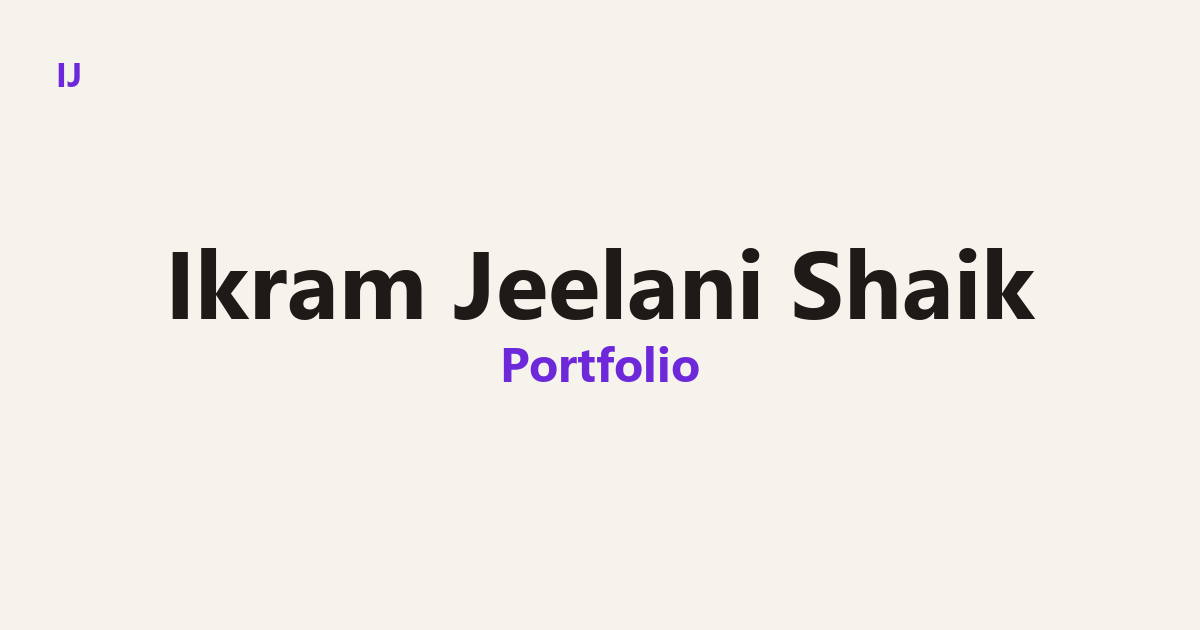
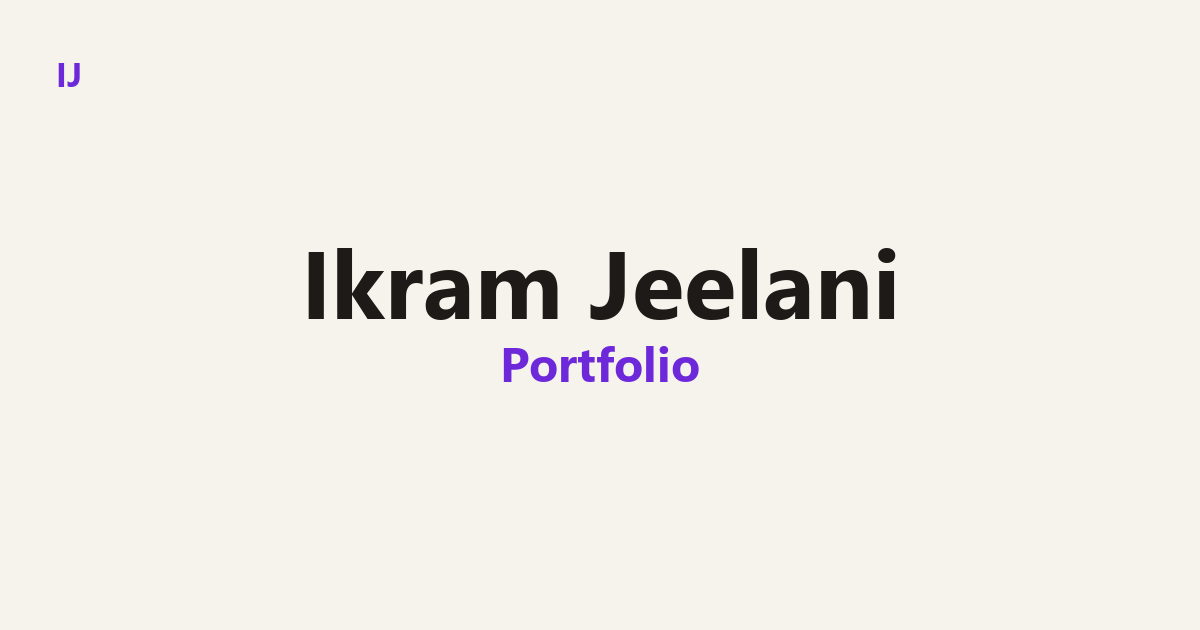
Update data.js

Changed region(s): [[0.1233, 0.3921, 0.8633, 0.5127]]

diff --git a/share/dc-motor-speed-controller-using-8051-mcu.html b/share/dc-motor-speed-controller-using-8051-mcu.html
@@ -4,15 +4,15 @@
 <meta charset="UTF-8">
 <meta name="viewport" content="width=device-width, initial-scale=1.0">
 <meta http-equiv="refresh" content="0; url=https://ikramjeelani.github.io/portfolio/project.html?id=dc-motor-speed-controller-using-8051-mcu">
-<title>DC Motor Speed Controller using 8051 MCU - Ikram Jeelani Shaik</title>
-<meta name="description" content="An in-depth look at DC Motor Speed Controller using 8051 MCU by Ikram Jeelani Shaik.">
+<title>DC Motor Speed Controller using 8051 MCU - Ikram Jeelani</title>
+<meta name="description" content="An in-depth look at DC Motor Speed Controller using 8051 MCU by Ikram Jeelani.">
 <meta name="robots" content="noindex, follow">
 <link rel="canonical" href="https://ikramjeelani.github.io/portfolio/project.html?id=dc-motor-speed-controller-using-8051-mcu">
 
 <meta property="og:type" content="article">
-<meta property="og:site_name" content="Ikram Jeelani Shaik">
-<meta property="og:title" content="DC Motor Speed Controller using 8051 MCU - Ikram Jeelani Shaik">
-<meta property="og:description" content="An in-depth look at DC Motor Speed Controller using 8051 MCU by Ikram Jeelani Shaik.">
+<meta property="og:site_name" content="Ikram Jeelani">
+<meta property="og:title" content="DC Motor Speed Controller using 8051 MCU - Ikram Jeelani">
+<meta property="og:description" content="An in-depth look at DC Motor Speed Controller using 8051 MCU by Ikram Jeelani.">
 <meta property="og:url" content="https://ikramjeelani.github.io/portfolio/project.html?id=dc-motor-speed-controller-using-8051-mcu">
 <meta property="og:image" content="https://ikramjeelani.github.io/portfolio/assets/Projects/DC-Motor-Speed-Controller-using-8051-MCU/display.jpg">
 <meta property="og:image:width" content="1400">
@@ -20,8 +20,8 @@
 <meta property="og:image:alt" content="DC Motor Speed Controller using 8051 MCU">
 
 <meta name="twitter:card" content="summary_large_image">
-<meta name="twitter:title" content="DC Motor Speed Controller using 8051 MCU - Ikram Jeelani Shaik">
-<meta name="twitter:description" content="An in-depth look at DC Motor Speed Controller using 8051 MCU by Ikram Jeelani Shaik.">
+<meta name="twitter:title" content="DC Motor Speed Controller using 8051 MCU - Ikram Jeelani">
+<meta name="twitter:description" content="An in-depth look at DC Motor Speed Controller using 8051 MCU by Ikram Jeelani.">
 <meta name="twitter:image" content="https://ikramjeelani.github.io/portfolio/assets/Projects/DC-Motor-Speed-Controller-using-8051-MCU/display.jpg">
 
 <script>location.replace('https://ikramjeelani.github.io/portfolio/project.html?id=dc-motor-speed-controller-using-8051-mcu');</script>

diff --git a/share/model-winch-for-foundry.html b/share/model-winch-for-foundry.html
@@ -4,15 +4,15 @@
 <meta charset="UTF-8">
 <meta name="viewport" content="width=device-width, initial-scale=1.0">
 <meta http-equiv="refresh" content="0; url=https://ikramjeelani.github.io/portfolio/project.html?id=model-winch-for-foundry">
-<title>Model Winch for Foundry - Ikram Jeelani Shaik</title>
-<meta name="description" content="An in-depth look at Model Winch for Foundry by Ikram Jeelani Shaik.">
+<title>Model Winch for Foundry - Ikram Jeelani</title>
+<meta name="description" content="An in-depth look at Model Winch for Foundry by Ikram Jeelani.">
 <meta name="robots" content="noindex, follow">
 <link rel="canonical" href="https://ikramjeelani.github.io/portfolio/project.html?id=model-winch-for-foundry">
 
 <meta property="og:type" content="article">
-<meta property="og:site_name" content="Ikram Jeelani Shaik">
-<meta property="og:title" content="Model Winch for Foundry - Ikram Jeelani Shaik">
-<meta property="og:description" content="An in-depth look at Model Winch for Foundry by Ikram Jeelani Shaik.">
+<meta property="og:site_name" content="Ikram Jeelani">
+<meta property="og:title" content="Model Winch for Foundry - Ikram Jeelani">
+<meta property="og:description" content="An in-depth look at Model Winch for Foundry by Ikram Jeelani.">
 <meta property="og:url" content="https://ikramjeelani.github.io/portfolio/project.html?id=model-winch-for-foundry">
 <meta property="og:image" content="https://ikramjeelani.github.io/portfolio/assets/Projects/Model-Winch-for-Foundry/display.jpg">
 <meta property="og:image:width" content="2000">
@@ -20,8 +20,8 @@
 <meta property="og:image:alt" content="Model Winch for Foundry">
 
 <meta name="twitter:card" content="summary_large_image">
-<meta name="twitter:title" content="Model Winch for Foundry - Ikram Jeelani Shaik">
-<meta name="twitter:description" content="An in-depth look at Model Winch for Foundry by Ikram Jeelani Shaik.">
+<meta name="twitter:title" content="Model Winch for Foundry - Ikram Jeelani">
+<meta name="twitter:description" content="An in-depth look at Model Winch for Foundry by Ikram Jeelani.">
 <meta name="twitter:image" content="https://ikramjeelani.github.io/portfolio/assets/Projects/Model-Winch-for-Foundry/display.jpg">
 
 <script>location.replace('https://ikramjeelani.github.io/portfolio/project.html?id=model-winch-for-foundry');</script>

diff --git a/data.js b/data.js
@@ -12,8 +12,8 @@ const SETTINGS = {
 
 /* ---------- 1. YOU ---------- */
 const PROFILE = {
-  name: "Ikram Jeelani Shaik",
-  initials: "IJS", // shown top-left AND as the browser-tab icon (kept in sync)
+  name: "Ikram Jeelani",
+  initials: "IJ", // shown top-left AND as the browser-tab icon (kept in sync)
   role: "Mechatronic Engineering Student",
   bio: "",
   // Shown beside the About text under your name. Put the file in assets/,
